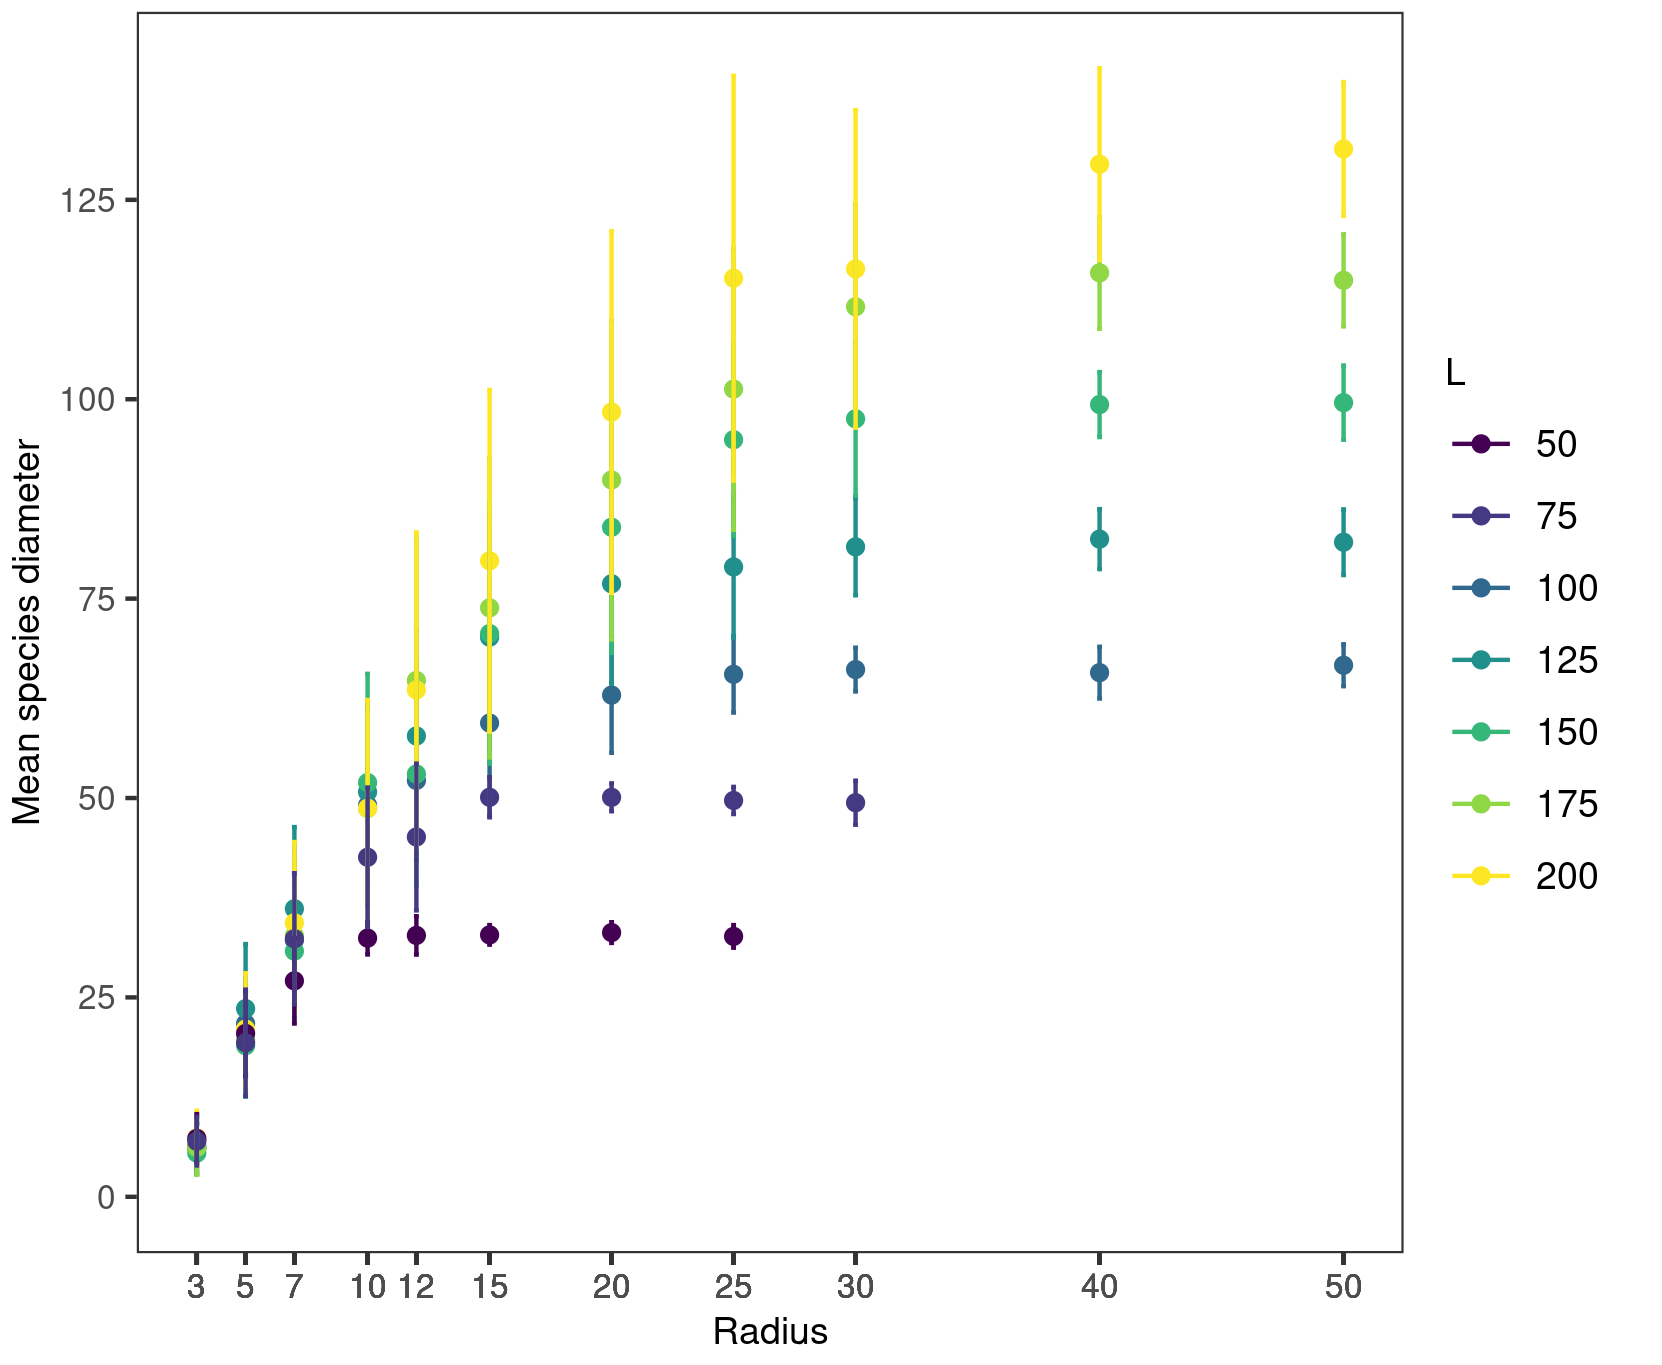
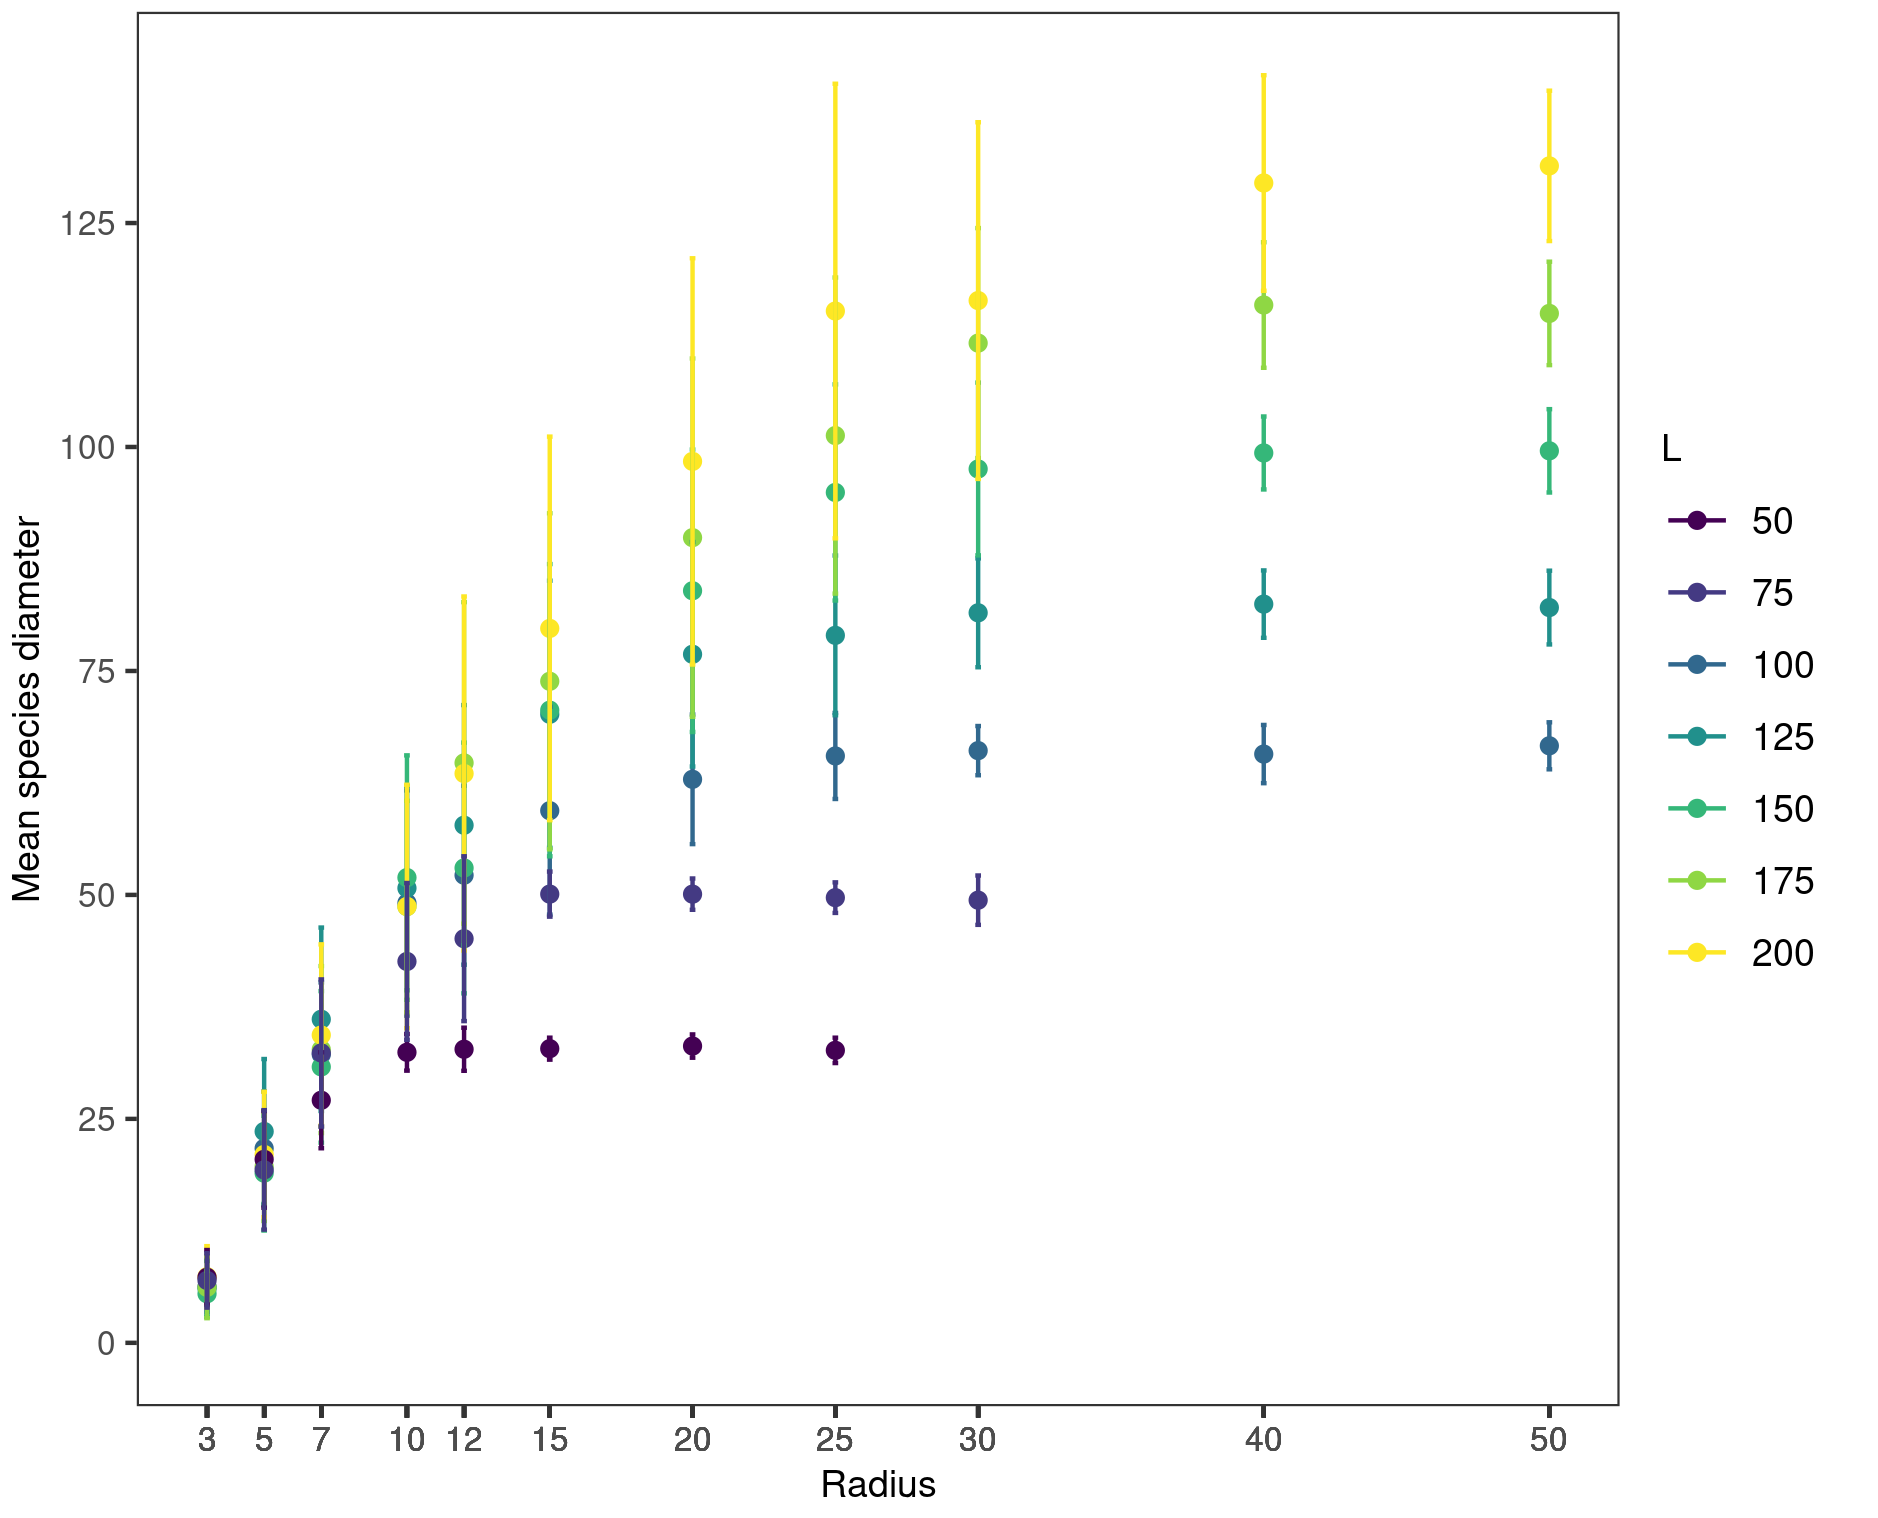
Last simulation fix + dxr graphs

diff --git a/source/main.c b/source/main.c
@@ -5,7 +5,7 @@ extern gsl_rng *GLOBAL_RNG;
 int main(int argc, char* argv[])
 {
   int i, l,  number_species = 1;
-  int sizes[1000];
+  int sizes[10000];
   time_t t;
   Population progenitors, offspring;
   Parameters info;
@@ -39,11 +39,11 @@ int main(int argc, char* argv[])
   for(i = 0; i <= info->number_generations; i++) {
 
     Stablish_Distances(progenitors, info);
-    if (i % 10 == 0) number_species = Count_Species(progenitors, info, sizes);
+    if (i % 25 == 0) number_species = Count_Species(progenitors, info, sizes);
 
     Reproduction  (progenitors, offspring, info);
 
-    if (i % 10 == 0) {
+    if (i % 25 == 0) {
       Write_Data(&nspecies, &size, &distances, &status, sizes, number_species, i, l, progenitors, info);
       printf(" %d \t %d \t  %d \t %d\n", l, i, number_species, info->population_size);
     }

diff --git a/source/data.c b/source/data.c
@@ -106,7 +106,7 @@ void Read_Data (FILE ** parms, FILE ** status, Population progenitors, Parameter
   int i;
   char line[300000] = "";
 
-  sprintf (nome_arq, "./data/article/%.f/%.f/status/status_a.csv", info->radius, info->lattice_length);
+  sprintf (nome_arq, "./data/article/%.f/%.f/status/status.csv", info->radius, info->lattice_length);
   *status = fopen (nome_arq, "r");  
 
   fgets (line, sizeof (line), *status);

diff --git a/source/model.c b/source/model.c
@@ -16,7 +16,7 @@ Parameters Set_Parameters (char *argv[])
 	info->child_population_size  = info->number_individuals;
 	info->radius                 = atof(argv[4]);
 	
-	info->genome_size            = 150;
+	info->genome_size            = 150000;
 	info->reproductive_distance  = (int) floor(0.05*info->genome_size);
 	info->number_generations     = 300;
 	info->mutation               = 0.00025;
